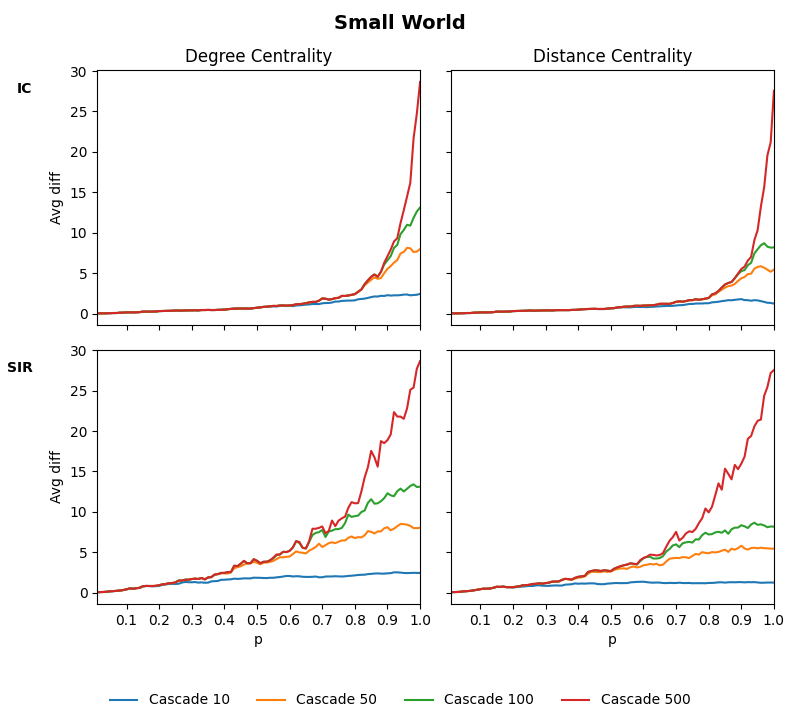
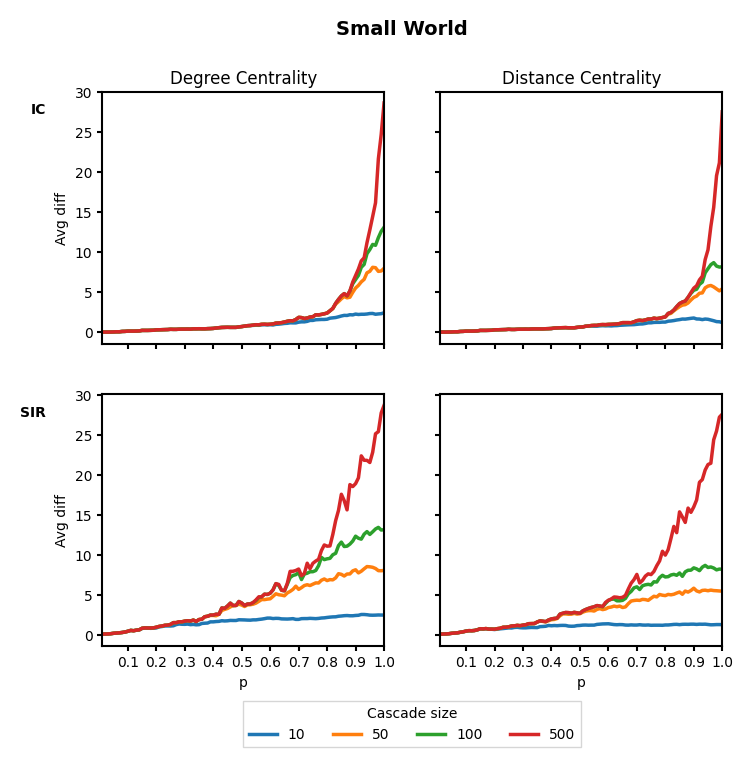
thicker line width

diff --git a/src/patient_zero/experiments/plots.py b/src/patient_zero/experiments/plots.py
@@ -36,6 +36,10 @@ for graph_type in graph_types:
     for row, model in enumerate(MODELS):
         for col, centrality in enumerate(CENTRALITY_MEASURES):
             ax = axes[row, col]
+            
+            ax.tick_params(width=1.5) # sets line width of ticks
+            for spine in ax.spines.values():
+                spine.set_linewidth(1.5) # sets line width of plot edges
 
             df_plot = df_graph[
                 (df_graph["model"] == model) &
@@ -44,7 +48,7 @@ for graph_type in graph_types:
 
             for cascade_size in sorted(df_plot["cascade_size_limit"].unique()):
                 s = df_plot[df_plot["cascade_size_limit"] == cascade_size].sort_values("r_infect") # get df for one cascade size
-                ax.plot(s["r_infect"], s["avg_diff"], label=f"Cascade {cascade_size}") # plots 
+                ax.plot(s["r_infect"], s["avg_diff"], label=cascade_size, linewidth=2.5) # plots 
 
             if row == 0: # only add title to left plot
                 ax.set_title(get_centrality_title(centrality))
@@ -57,9 +61,21 @@ for graph_type in graph_types:
             ax.set_xticks([0.1,0.2,0.3,0.4,0.5,0.6,0.7,0.8,0.9,1.0]) # to avoid weird p values on x axis
             ax.margins(x=0) # remove margin on x axis
 
-    handles, labels = axes[0, 0].get_legend_handles_labels() # get label of all lines in plot
-    fig.legend(handles, labels, loc="lower center", ncol=len(handles), frameon=False) # add the labels to a legends in bottom center
+    left  = axes[0, 0].get_position().x0
+    right = axes[0, -1].get_position().x1
+    x_center = (left + right) / 2
+
+    handles, labels = axes[0, 0].get_legend_handles_labels()
+
+    fig.legend(
+        handles, labels,
+        loc="lower center",
+        bbox_to_anchor=(x_center, -0.04),
+        bbox_transform=fig.transFigure,
+        ncol=len(handles),
+        frameon=True, fancybox=False,
+        title="Cascade size",
+    )# add the labels to a legends in bottom center
 
     fig.suptitle(get_network_title(graph_type), fontsize=14, weight="bold")
-    plt.tight_layout(rect=[0, 0.08, 1, 1]) # squeezes plots a bit together
-    plt.savefig(f"{DATA_DIR}/plots/{graph_type}") # save plots to png
+    plt.savefig(f"{DATA_DIR}/plots/{graph_type}", bbox_inches="tight", pad_inches=0.2) # save plots to png
